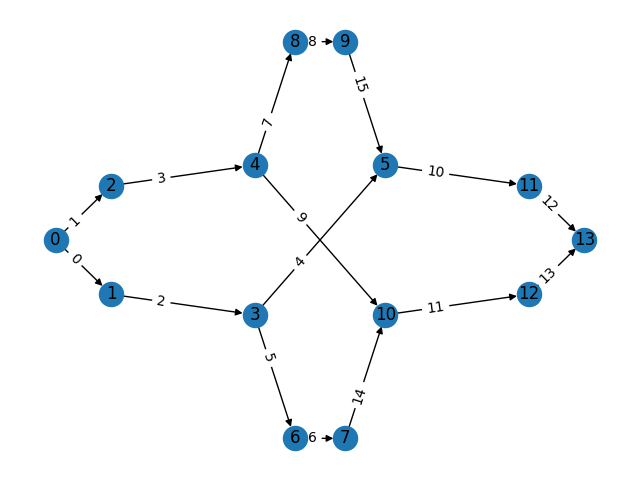
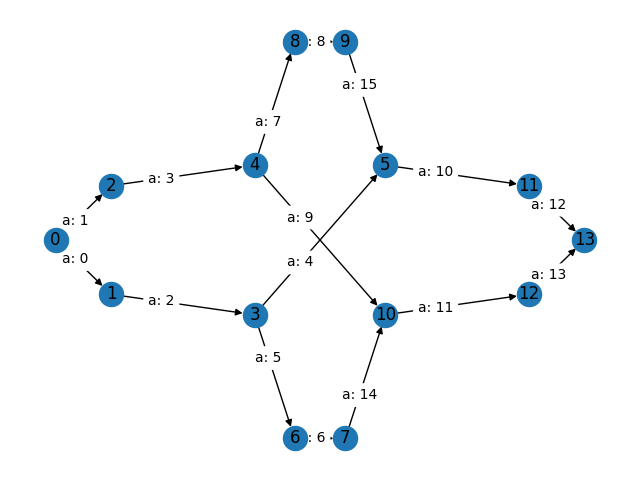
finalized and cleaned up repo to be merged with main project

diff --git a/src/main.py b/src/main.py
@@ -176,22 +176,22 @@ controller_dict[2] = SubtaskController(2, init_states=[0, 0], final_states=[1, 0
 """
 
 """
-#TODO implmenent this and make sure it works for some reasonable assumptions on the success function
 #TODO the transitions don't have the right init_states and final_states, but that is only something I will know after I actually implement the full labyrinth environment
-## for now, the init_states and final_states are shorthand, with the number in the first entry as the indices of the high-level states the edge is associated with
 
 scenario 5 - the multi-agent labyrinth as we will actually implement it
 includes "helper goals" to get the team between rooms easier and reduce the complexity of learning the policy
 """
+
 prob_threshold = 0.95
 init_states = [0, 0]
 final_states = [13, 0]
+
 
 state_action_transition_dict = {}
 
 state_action_transition_dict[0] = {
     "avail_actions": [0, 1],
-    "final_states": [1, 2]
+    "final_states": [1, 2],
     }
 
 state_action_transition_dict[1] = {
@@ -254,40 +254,12 @@ state_action_transition_dict[12] = {
     "final_states": [13]
     }
 
-G = nx.DiGraph()
-edge_labels = {}
-
+# populate controller dictionary
 for start_state in state_action_transition_dict:
-    G.add_node(start_state)
-
     for i in range(len(state_action_transition_dict[start_state]["avail_actions"])):
         action = state_action_transition_dict[start_state]["avail_actions"][i]
         final_state = state_action_transition_dict[start_state]["final_states"][i]
         controller_dict[action] = SubtaskController(action, init_states=[start_state, 0], final_states=[final_state, 0], success_function_idx=6)
-
-        edge_labels[(start_state, final_state)] = action
-
-
-        G.add_edge(start_state, final_state, action_idx=action)
-
-# draw the graph with networkx and matplotlib
-
-# this layout is pretty dope tbh
-## I tried a bunch of the other layouts and they don't look great for our graph
-## spectral is also kinda how I drew the graph in the first place, so I think it is a fairly intuitive way to display the graph
-# would be nice to roate it so 0 is at the top to mirror the actual layout of the labyrinth
-## but the final image in our paper will be made using tikz in latex anyways, so don't worry about it. This image is just for my own sanity check and to have an intermediate result.
-## in the final image, it should have the "subtask" labels, as well as the possibility of entering a failure state like the image in "Verifiable"
-
-pos = nx.spectral_layout(G)
-plt.figure()
-nx.draw(G, pos, labels={node: node for node in G.nodes()})
-nx.draw_networkx_edge_labels(G, pos, label_pos=0.65, edge_labels=edge_labels)
-plt.savefig("high_level_mdp.png")
-
-
-
-
 
 # ####################
 # # policies going out of u0
@@ -345,7 +317,6 @@ plt.savefig("high_level_mdp.png")
 #TODO once you have an optimal policy, it may make sense to "refine" the optimal policy so comms are minimized just for the states that can be visited under that policy
 
 
-
 # set up communication optimization problem
 hlmdp = HLMDP(init_states=init_states, goal_states=final_states, controller_dict=controller_dict)
 
@@ -355,28 +326,55 @@ hlmdp = HLMDP(init_states=init_states, goal_states=final_states, controller_dict
 policy, optimal_comms_vals, chosen_success_probs, goal_reach_prob, feasible_flag = hlmdp.solve_minimal_comms_vals(prob_threshold)
 
 
-"""
+#TODO visualize the state-transition graph and policy
+## is there a nice way to visualize the learned communication values and chosen success probabilities (transition function) too?
+
+# draw the graph with networkx and matplotlib
+# this layout is pretty dope tbh
+## I tried a bunch of the other layouts and they don't look great for our graph
+## spectral is also kinda how I drew the graph in the first place, so I think it is a fairly intuitive way to display the graph
+# would be nice to roate it so 0 is at the top to mirror the actual layout of the labyrinth
+## but the final image in our paper will be made using tikz in latex anyways, so don't worry about it. This image is just for my own sanity check and to have an intermediate result.
+## in the final image, it should have the "subtask" labels, as well as the possibility of entering a failure state like the image in "Verifiable"
+
+
+# init networkx graph for visualization
+G = nx.DiGraph()
+edge_labels = {}
+
+# populate edge data from the high-level MDP solution
+for start_state in hlmdp.S:
+    if (start_state != hlmdp.s_fail):
+        #TODO how to visualize the policy for each state?
+        ## not a priority, it will take more effort than it is worth right now
+        ### maybe color the outgoing edges of a state based on the probability of taking that action
+        ### or as a weight that is "above" the edge
+
+        G.add_node(start_state)
+
+        if (start_state != hlmdp.s_g):
+            for i in range(len(state_action_transition_dict[start_state]["avail_actions"])):
+                action = state_action_transition_dict[start_state]["avail_actions"][i]
+                final_state = state_action_transition_dict[start_state]["final_states"][i]
+
+                # only show the action index on the edges
+                edge_labels[(start_state, final_state)] = f"a: {action}"
+
+                # show a bunch on information on the edges (gets cut off b/c some edges are too short)
+                # edge_labels[(start_state, final_state)] = f"a: {action}, p: {chosen_success_probs[action]}, c: {optimal_comms_vals[action]}"
+
+                G.add_edge(start_state, final_state, action_idx=action, optimal_comms_val=optimal_comms_vals[action], chosen_success_prob=chosen_success_probs[action])
+
+pos = nx.spectral_layout(G)
+plt.figure()
+nx.draw(G, pos, labels={node: node for node in G.nodes()})
+nx.draw_networkx_edge_labels(G, pos, label_pos=0.65, edge_labels=edge_labels, rotate=False)
+plt.savefig("high_level_mdp.png")
+
 print("\n\n")
 print(f"Policy: \n{policy}\n")
-
-
-print(f"Communication values: {optimal_comms_vals}")
 print(f"Chosen success probabilities: {chosen_success_probs}")
+print(f"Communication values: {optimal_comms_vals}")
+print(f"Summed communication values: {sum(optimal_comms_vals.values())}")
 print(f"Goal reach probability: {goal_reach_prob}")
-pdb.set_trace()
-"""
-
-# plot success probability vs communication threshold
-# for controller_idx, controller in enumerate(controller_list):
-#     plt.plot(controller.communication_thresholds, controller.success_prob_list, label=f"Controller {controller_idx}")
-#     plt.xlabel("Communication threshold $\lambda_c$")
-#     plt.ylabel("Empirical subtask success probability $\hat{\sigma}_c$ ")
-#     plt.legend()
-#     plt.savefig("success_prob_list.png")
-
-# initialize high-level MDP
-
-
-
-# solve high-level MDP for minimal communication while meeting prob_threshold
 

diff --git a/src/utils/high_level_mdp.py b/src/utils/high_level_mdp.py
@@ -80,7 +80,7 @@ class HLMDP(object):
         for s in self.S:
             self.avail_actions[s] = []
 
-        for controller_ind in self.controller_dict.keys():
+        for controller_ind in range(len(self.controller_dict.keys())):
             controller = self.controller_dict[controller_ind]
             controller_init_states = controller.get_init_states()
             init_s = self.state_list.index(controller_init_states)
@@ -88,7 +88,7 @@ class HLMDP(object):
 
     def _construct_avail_actions(self):
         for a in self.A:
-            self.avail_states[a]=[]
+            self.avail_states[a] = []
 
         for s in self.S:
             avail_actions = self.avail_actions[s]
@@ -149,7 +149,7 @@ class HLMDP(object):
         avail_actions = self.avail_actions.copy()
 
         #dummy action for goal state
-        avail_actions[self.s_g]=[0]
+        avail_actions[self.s_g] = [0]
 
         #create occupancy measures, probability variables and reward variables
         for s in self.S:
@@ -346,7 +346,6 @@ class HLMDP(object):
         chosen_success_probs = {}
 
         for a in self.A:
-            print(a)
             for val_idx in range(n_sampled_vals):
                 # round binary_decision_vars to 1 to check this condition
                 ## Gurobi uses floating point numbers, so it might output a value like 0.9999915854839727 for binary_decision_vars which is supposed to only take values in {0, 1}. That means in the context of this variable, its value is actually 1
@@ -391,12 +390,6 @@ class HLMDP(object):
         else:
             policy = -1 * np.ones((self.N_S, self.N_A), dtype=np.float)
             goal_reach_prob = -1
-
-        print("\n\n")
-        print(f"Policy: \n{np.round(policy, 2)}\n")
-        print(f"Communication values for subtask policies: {optimal_comms_vals}")
-        print(f"Chosen success probabilities for subtask policies: {chosen_success_probs}")
-        print(f"Goal reach probability: {goal_reach_prob}")
 
         return policy, optimal_comms_vals, chosen_success_probs, goal_reach_prob, feasible_flag
 
